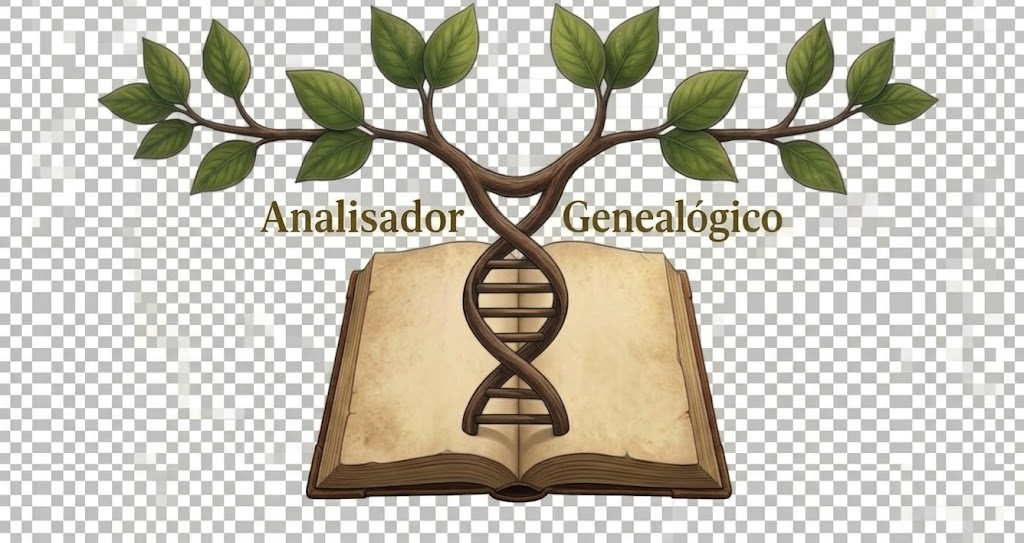
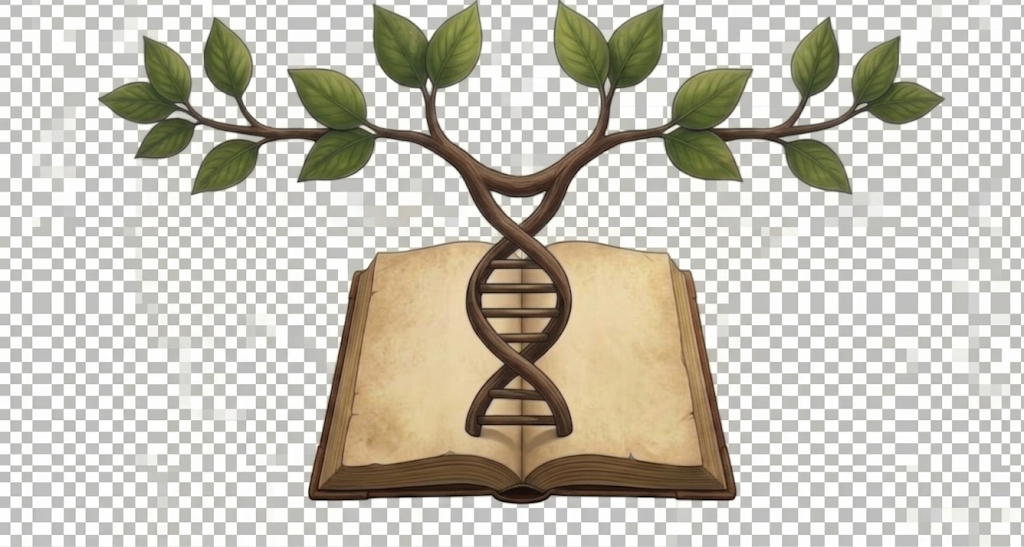
feat(tela): arte do topo sem o titulo e o h1 sempre visivel

diff --git a/src/templates/index.html b/src/templates/index.html
@@ -192,16 +192,14 @@
                                  alt="Ilustração: árvore genealógica, livro aberto e hélice de DNA"
                                  class="img-fluid w-50">
                             <p class="text-muted mb-1">Genetic Genealogy Path Analyzer</p>
-                            {# O `<h1>` SO e escondido enquanto a arte ESTA na tela. A arte do topo ja
-                               traz "Analisador Genealógico" desenhado, entao os dois visiveis
-                               nomeariam o produto duas vezes, uma logo abaixo da outra; e sem a
-                               arte, escondê-lo deixaria o operador sem nenhuma identificacao em
-                               portugues. A condicao vem do SERVIDOR (`arte_do_topo_disponivel`),
-                               porque o CSS nao sabe se uma imagem carregou.
-
-                               O texto nunca sai do documento: escondido ou nao, ele e o titulo de
-                               nivel 1 para leitor de tela e buscador. #}
-                            <h1 class="card-title mb-3{% if arte_do_topo_disponivel %} visually-hidden{% endif %}">Analisador Genealógico</h1>
+                            {# O `<h1>` e SEMPRE visivel, e a `RN-23` volta a valer como esta escrita.
+                               Ele chegou a ser escondido enquanto a arte do topo trazia "Analisador
+                               Genealógico" desenhado — com os dois visiveis, o produto se nomeava
+                               duas vezes, uma logo abaixo da outra. A arte trocada em 2026-10-16
+                               **nao tem o texto**, entao esconder o `h1` deixaria a tela sem
+                               nenhuma identificacao do produto em portugues: o subtitulo e em
+                               ingles e o `alt` descreve a ilustracao. #}
+                            <h1 class="card-title mb-3">Analisador Genealógico</h1>
                             {# O texto de apresentacao fica CENTRALIZADO e numa coluna mais
                                estreita que o cartao, na mesma forma organizada da documentacao
                                do projeto.

diff --git a/tests/test_banner_do_topo.py b/tests/test_banner_do_topo.py
@@ -116,13 +116,15 @@ class TestRotaDaArte:
         assert repetida.get_data() == b""
 
     def test_arte_ausente_devolve_404_e_a_tela_continua_de_pe(self, cliente_de_upload, monkeypatch):
-        """`RN-08` e `RN-23`, emendada em 2026-10-11: sem a arte, o titulo tem de APARECER.
+        """`RN-08`: a arte pode faltar, e a tela nao pode cair por causa dela.
 
-        **Este teste media a coisa errada ate 2026-10-11.** Ele procurava `TITULO_NA_TELA` em
-        qualquer lugar do documento, e o texto continua no HTML mesmo quando a folha o esconde —
-        entao ele passava enquanto o operador ficava **sem titulo nenhum**: o `alt` descreve a
-        ilustracao, nao o produto, e o subtitulo e em ingles. Agora ele prende o EFEITO, que e o
-        que ele sempre prometeu no docstring: sem a arte, o `<h1>` volta a ser visivel.
+        **Este teste media a coisa errada ate 2026-10-11** — procurava `TITULO_NA_TELA` em
+        qualquer lugar do documento, e o texto continua no HTML mesmo quando a folha o esconde.
+        Ele passava enquanto o operador ficava **sem titulo nenhum**.
+
+        Hoje a assercao e a mesma, mas o motivo mudou: o `<h1>` e **sempre visivel** desde
+        2026-10-16 (a arte nova nao traz o texto), entao a linha virou guarda contra alguem
+        voltar a esconde-lo.
         """
         app, cliente, _pasta = cliente_de_upload
         monkeypatch.setitem(app.config, "ARTE_DO_TOPO", os.path.join(_RAIZ, "nao-existe.png"))
@@ -133,8 +135,8 @@ class TestRotaDaArte:
         corpo = tela.get_data(as_text=True)
         assert TITULO_NA_TELA in corpo, "o titulo sumiu do documento quando a arte falta"
         assert "visually-hidden" not in _classe_do_h1(corpo), (
-            "sem a arte o `h1` ficou escondido: o operador fica sem nenhuma identificacao do "
-            "produto em portugues, que e o caso que este teste existe para impedir"
+            "o `h1` ficou escondido: o operador fica sem nenhuma identificacao do produto em "
+            "portugues, que e o caso que este teste existe para impedir"
         )
 
 
@@ -214,18 +216,27 @@ class TestTopoDaTela:
             "o titulo ANTIGO voltou para a tela: era para ele ter saido na `RN-16` e nao voltar"
         )
 
-    def test_o_titulo_so_e_escondido_quando_a_arte_esta_na_tela(self, cliente_de_upload):
-        """`RN-23` emendada em 2026-10-11: o `h1` duplica a arte, entao ele cede enquanto ela vem.
+    def test_o_titulo_do_produto_esta_sempre_visivel(self, cliente_de_upload):
+        """`RN-23`: o titulo e **texto visivel**, e nao depende da arte.
 
-        A arte do topo ja desenha "Analisador Genealogico". Com os dois visiveis, o produto se
-        nomeia duas vezes, uma logo abaixo da outra; sem a arte, esconder o `h1` deixaria o
-        operador sem titulo nenhum. A emenda e a condicao: escondido **se, e somente se,** a arte
-        responde — e quem responde isso e o servidor (`arte_do_topo_disponivel`), nao o CSS.
+        ## A condicao que existiu aqui, e por que ela saiu
+
+        Entre 2026-10-11 e 2026-10-16 o `h1` era escondido **enquanto a arte do topo respondesse**,
+        porque aquela arte trazia "Analisador Genealogico" DESENHADO: com os dois visiveis, o
+        produto se nomeava duas vezes, uma logo abaixo da outra. Quem respondia era o servidor
+        (`arte_do_topo_disponivel`, um processador de contexto), e nao o CSS — folha de estilo nao
+        sabe se uma imagem carregou.
+
+        A arte trocada em 2026-10-16 **nao tem o texto**, entao a condicao perdeu o objeto:
+        esconder o `h1` passaria a deixar a tela sem nenhuma identificacao do produto em portugues
+        (o subtitulo e em ingles e o `alt` descreve a ilustracao). O que este teste prende, a partir
+        dai, e a `RN-23` **como ela esta escrita** — sem emenda.
         """
         _app, cliente, _pasta = cliente_de_upload
 
-        assert "visually-hidden" in _classe_do_h1(self._corpo(cliente)), (
-            "com a arte na tela, o `h1` visivel repete o titulo que a arte ja desenha"
+        assert "visually-hidden" not in _classe_do_h1(self._corpo(cliente)), (
+            "o `h1` voltou a ser escondido: a arte atual nao traz o titulo, entao a tela ficaria "
+            "sem nenhuma identificacao do produto em portugues"
         )
 
     def test_o_h1_carrega_o_titulo_em_texto(self, cliente_de_upload):
@@ -364,16 +375,27 @@ class TestArteDerivada:
     def test_a_arte_nao_perdeu_as_partes_claras_que_sao_arte(self, arte):
         """O outro lado do risco: a regra que remove fundo claro nao pode furar a pintura.
 
-        ## Estes pontos foram MEDIDOS na composicao de 2026-10-10
+        ## Estes pontos foram MEDIDOS na composicao de 2026-10-16
 
-        Todos verificados como opacos no arquivo de runtime. Eles cobrem as duas famílias de risco:
+        Todos verificados como opacos no arquivo de runtime. Eles cobrem as duas familias de
+        risco:
 
         - **arte ESCURA e pouco saturada** (capa `sat=53`, lombada `sat=35`, base do livro
           `sat=22`) — o que um limite de brilho baixo demais comecaria a comer;
-        - **arte CLARA e quase neutra** (o preenchimento do texto dourado, `sat~24`) — o que um
-          teto de saturacao largo demais come, e foi o defeito MEDIDO: com um unico limite de
-          brilho, as letras de "Analisador Genealogico" ficaram OCAS. A correcao esta em
-          `_e_fundo`, que usa teto estreito na faixa de 160 a 190.
+        - **arte CLARA e quase neutra** — o que um teto de saturacao largo demais come. Os dois
+          pontos centrais sao desta familia, e foram escolhidos a **>= 4 px de qualquer pixel de
+          fundo**: prendem TINTA, e nao a antialiasing da borda.
+
+        ## O ponto que saiu em 2026-10-16, e por que ele caiu
+
+        A composicao anterior tinha um ponto no **preenchimento do texto dourado**
+        (`(270, 212)`, `sat~24`), e era ele que prendia a faixa ESTREITA de saturacao — foi com um
+        teto unico que as letras de "Analisador Genealogico" ficaram OCAS.
+
+        A arte atual **nao tem o texto**: `(270, 212)` virou fundo e este teste caiu, corretamente.
+        A familia continua representada pelos dois pontos centrais; a contagem que a prende sem
+        depender de um pixel esta em
+        `test_a_faixa_estreita_de_saturacao_continua_protegendo_tinta`.
 
         Se alguem "resolver" um residuo de fundo baixando o brilho ou alargando a saturacao, um
         destes pontos vira buraco e este teste cai.
@@ -384,7 +406,8 @@ class TestArteDerivada:
             "folha alta direita": (860, 75),
             "galho esquerdo": (300, 130),
             "galho direito": (700, 130),
-            "preenchimento do texto (A)": (270, 212),
+            "tinta clara e quase neutra, no centro (1)": (511, 255),
+            "tinta clara e quase neutra, no centro (2)": (489, 377),
             "pagina esquerda": (430, 360),
             "pagina direita": (600, 360),
             "lombada": (512, 420),
@@ -395,3 +418,41 @@ class TestArteDerivada:
             assert rgba.getpixel((x, y))[3] == 255, (
                 f"a arte perdeu {rotulo} em ({x}, {y}): a remocao de fundo comeu tinta"
             )
+
+    def test_a_faixa_estreita_de_saturacao_continua_protegendo_tinta(self, arte):
+        """A contagem que prende a faixa estreita sem depender de um pixel so'.
+
+        `_e_fundo` trata a faixa de 160 a 190 com teto de saturacao **estreito** (12), porque
+        ali o fundo e cinza neutro (`sat` 0..7) e a tinta clara e levemente quente. Se o teto
+        voltar a ser o largo (50), **toda** a tinta dessa faixa vira fundo — foi o defeito medido
+        que deixou as letras de "Analisador Genealogico" ocas na composicao anterior.
+
+        ## Os numeros sao medidos, nao escolhidos
+
+        Na arte derivada de 2026-10-16: **455 pixels** opacos nesta faixa. Com o teto largo:
+        **zero**. O piso de 150 fica com folga de 3x para baixo de proposito — pixels de borda
+        mudam com qualquer ajuste na segunda passada da receita, e o que este teste prende e a
+        ORDEM DE GRANDEZA, nao o valor exato.
+
+        Este teste existe porque o ponto por pixel que fazia esse papel saiu com o texto: sem ele,
+        alargar o teto passaria despercebido.
+        """
+        rgba = arte.convert("RGBA")
+        pixels = rgba.load()
+        largura, altura = rgba.size
+
+        na_faixa = 0
+        for y in range(altura):
+            for x in range(largura):
+                r, g, b, alfa = pixels[x, y]
+                if alfa != 255:
+                    continue
+                maior, menor = max(r, g, b), min(r, g, b)
+                if 160 <= maior < 190 and 12 < (maior - menor) <= 50:
+                    na_faixa += 1
+
+        assert na_faixa >= 150, (
+            f"so' {na_faixa} pixels opacos na faixa estreita de saturacao (medido: 455). O teto "
+            "de `SATURACAO_MINIMA_ESCURA` foi alargado, ou o brilho minimo baixou, e a tinta clara "
+            "da arte esta sendo tratada como fundo"
+        )

diff --git a/src/app.py b/src/app.py
@@ -435,29 +435,21 @@ def banner_do_topo():
     return send_file(caminho, mimetype="image/png")
 
 
-# A arte do topo traz "Analisador Genealogico" DESENHADO nela, entao o `<h1>` fica `visually-hidden`
-# enquanto ela responde: mostrar os dois nomearia o produto duas vezes, uma logo abaixo da outra. O
-# `<h1>` nao sai do documento — ele continua sendo o titulo de nivel 1 para leitor de tela e buscador.
+# O processador de contexto `_arte_do_topo_disponivel` EXISTIU aqui, e saiu em 2026-10-16 junto com a
+# condicao que ele alimentava no template. O registro fica porque a ideia pode voltar.
 #
-# A CONDICAO E DO SERVIDOR, e nao do navegador. O CSS nao sabe se uma imagem carregou, e o JS so
-# descobriria depois de a pagina pintar — tarde para quem ja leu o topo. Aqui a pergunta e feita antes
-# de renderizar, e `os.path.isfile` e a MESMA pergunta que a rota responde em `404`: as duas nao podem
-# divergir.
+# Ele respondia "a arte do topo esta no disco?" para o `<h1>` se esconder quando ela responde. Fazia
+# sentido enquanto a arte trazia "Analisador Genealogico" DESENHADO: com os dois visiveis, o produto se
+# nomeava duas vezes, uma logo abaixo da outra. E a condicao era do SERVIDOR, e nao do CSS, porque folha
+# de estilo nao sabe se uma imagem carregou.
 #
-# POR QUE ISSO IMPORTA. Sem a arte, esconder o `<h1>` deixaria o operador com o subtitulo em ingles e
-# **nenhuma** identificacao do produto em portugues. Era o caso que o `RN-08` declara suportado (a arte
-# pode faltar e a tela continua de pe) e que ficou descoberto quando o `<h1>` passou a ser escondido.
+# A arte trocada em 2026-10-16 **nao tem o texto** (ver `docs/assets/img/banner-analisador.png`), entao
+# a condicao perdeu o objeto: esconder o `<h1>` passaria a deixar a tela sem NENHUMA identificacao do
+# produto em portugues — o subtitulo e em ingles e o `alt` descreve a ilustracao. O `<h1>` volta a ser
+# sempre visivel e a `RN-23` volta a valer como esta escrita.
 #
-# Vem por processador de contexto, e nao por argumento nos oito `render_template`, pelo mesmo motivo das
-# listas: seriam oito lugares para esquecer um.
-@app.context_processor
-def _arte_do_topo_disponivel():
-    """`True` enquanto o arquivo da arte do topo estiver no disco.
-
-    Lida de `app.config` a cada renderizacao, e nao capturada no import: e o que permite ao teste
-    apontar `ARTE_DO_TOPO` para um caminho inexistente e medir a tela sem a arte.
-    """
-    return {"arte_do_topo_disponivel": os.path.isfile(app.config["ARTE_DO_TOPO"])}
+# SE A ARTE VOLTAR A TRAZER O TITULO, a condicao volta a fazer sentido: um processador de contexto com
+# `os.path.isfile(app.config["ARTE_DO_TOPO"])`, que e a MESMA pergunta que a rota responde em `404`.
 
 
 # --- A folha de estilo da tela ---

diff --git a/tests/test_icone_de_atalho.py b/tests/test_icone_de_atalho.py
@@ -122,7 +122,22 @@ TAMANHO_ESPERADO = 16504
 #: `-#}` para nao acrescentarem whitespace ao documento — sem isso o delta seria +59, e esta
 #: declaracao estaria contando espaco em branco em vez de contar a regra.
 #: A declaracao esta em `_reversa_sdd/addenda/021-seletor-de-arquivos-por-formato.md`.
[1 lines of base64/hex data omitted]
+#:
+#: **Atualizado em 2026-10-16, pela troca da arte do topo.** A arte nova
+#: (`docs/assets/img/banner-analisador.png`, 1024x547) NAO traz "Analisador Genealogico" desenhado.
+#: Com isso o `<h1>` voltou a ser SEMPRE visivel: a condicao que o escondia enquanto a arte
+#: respondia (`arte_do_topo_disponivel`, um processador de contexto) perdeu o objeto e saiu junto,
+#: de `src/app.py` e do template. `39c6257f…` (30.759 bytes) → `c4a34f7b…` (30.781).
+#:
+#: A contribuicao DESTA mudanca e **-16 bytes** — exatamente o ` visually-hidden` que saiu da classe
+#: do `h1`. Os +38 restantes do delta sao de edicoes **em curso e nao commitadas** de outra sessao no
+#: mesmo template: medido, e nao deduzido, porque o valor anterior veio do commit do adendo `021` e o
+#: template esta modificado na arvore. Este hash mede a TELA, entao ele acusa as duas coisas juntas.
+#:
+#: Com o titulo de volta, a **`RN-23` volta a valer como esta escrita**: a emenda que o adendo `013`
+#: registrou ("escondido se, e somente se, a arte responder") foi RETIRADA. A declaracao desta
+#: entrega esta em `_reversa_sdd/addenda/023-arte-do-topo-sem-o-titulo.md`.
[1 lines of base64/hex data omitted]
 
 
 def _cabecalho_png(corpo: bytes):

diff --git a/_reversa_sdd/addenda/023-arte-do-topo-sem-o-titulo.md b/_reversa_sdd/addenda/023-arte-do-topo-sem-o-titulo.md
@@ -1,0 +1,116 @@
+# Adendo: arte do topo sem o título
+
+> Identificador: `023-arte-do-topo-sem-o-titulo`
+> Data: `2026-10-16`
+> Cenário: **legado** (âncora em `_reversa_sdd/recursos-da-tela/` e `_reversa_sdd/design-system/`)
+
+## Vigência
+
+Vigente desde 2026-10-16.
+
+**Reverte uma parte do adendo `013-revisao-de-design-da-tela.md`** — a emenda à `RN-23` que escondia o
+`<h1>`. Ver "O que este adendo reverte do adendo 013".
+
+## Resumo da entrega
+
+O operador trocou a arte do topo por uma versão **sem o texto "Analisador Genealógico"** desenhado, e
+relatou que o fundo não estava transparente.
+
+O que estava errado não era a imagem: ele substituiu a arte **derivada** por uma **fonte crua**. O
+arquivo `src/assets/banner-da-tela.png` é a saída da receita, e o que a rota serve; a fonte canônica
+mora em `docs/assets/img/banner-analisador.png`. O arquivo entrou com **canal alfa inteiramente opaco**
+(medido: 0 pixels transparentes em 560.128) e o **quadriculado de transparência pintado no bitmap**
+(claro em 253-254 alternando com cinza em 191-192, em blocos de 8 px) — a mesma classe de defeito que a
+feature 011 já tinha enfrentado em 2026-10-10.
+
+A entrega tem quatro frentes:
+
+1. **A arte nova entra como fonte canônica** — `docs/assets/img/banner-analisador.png` passa de
+   926.083 para **1.101.780 bytes**, e de 1024x543 para **1024x547**.
+2. **A derivada é regerada pela receita existente**, sem reajuste de limites:
+   `python -m tests.banner_da_tela` produz **318.911 bytes, 72,4 % transparente, zero resíduo de
+   fundo**. Os limites medidos em 2026-10-10 (`CLARO_MINIMO = 160` e as duas faixas de saturação)
+   valem para esta composição.
+3. **O `<h1>` volta a ser sempre visível.** Ele era escondido enquanto a arte respondesse, porque
+   aquela arte trazia o título desenhado. A arte nova não traz — esconder o `h1` deixaria a tela sem
+   **nenhuma** identificação do produto em português. O processador de contexto
+   `arte_do_topo_disponivel` saiu de `src/app.py` junto com a condição.
+4. **O ponto de amostra que prendia o texto dourado no teste da arte foi substituído**, e a família
+   que ele protegia ganhou uma guarda por contagem.
+
+**Suíte: `1020 passed, 9 skipped`.**
+
+> ⚠ **A paridade diferencial NÃO está em 100 % nesta data** — 20 divergências, todas no probe
+> `ancestral[...]`, e **nenhuma delas é desta entrega**: elas vêm da correção da busca de ancestral
+> comum que outra sessão tem em curso (`src/core/documentary_relationship.py`, `path_finding.py`,
+> `identidade_do_match.py`). Registrado aqui para que ninguém atribua a divergência a esta troca de
+> arte.
+
+## O que este adendo reverte do adendo 013
+
+O `013` registrou uma **emenda à `RN-23`**: "o título é texto no documento, e **visível apenas quando
+a arte do topo não responde**". A emenda existia por um motivo real — a arte daquela data trazia
+"Analisador Genealógico" desenhado, e manter os dois visíveis nomeava o produto duas vezes, uma logo
+abaixo da outra.
+
+**A emenda foi retirada.** Com uma arte sem o texto, a condição perdeu o objeto, e a `RN-23` volta a
+valer **como está escrita**: "o título volta a ser texto visível".
+
+O que **não** foi revertido do `013`: a folha de estilo servida por `GET /app.css`, o controle de
+tema, o índice, o selo e a grade do kit continuam como aprovados — e a outra emenda do `013` (o teto
+de 320 px da arte) segue vigente.
+
+O comentário do `SHA_DA_TELA` em `tests/test_icone_de_atalho.py` foi atualizado na mesma direção: ele
+apontava para a emenda do `013` e agora aponta para este adendo.
+
+## Impacto por artefato da extração
+
+| Artefato | Seção | Tipo de impacto | Delta |
+|----------|-------|-----------------|-------|
+| `_reversa_sdd/addenda/013-revisao-de-design-da-tela.md` | "Regras alteradas", linha da `RN-23` (título) | regra-removida | A emenda que escondia o `<h1>` deixa de valer; a `RN-23` volta ao texto original |
+| `_reversa_sdd/recursos-da-tela/contracts.md` | arte do topo | delta-de-dados | A arte servida passa a ser 1024x547 (era 1024x543), com **72,4 %** de transparência e zero resíduo |
+| `docs/assets/img/banner-analisador.png` (fora da extração, citado por completude) | — | delta-de-dados | A fonte canônica é substituída: 926.083 → **1.101.780 bytes** |
+| `src/assets/banner-da-tela.png` | — | delta-de-dados | A derivada é regerada: 317.058 → **318.911 bytes**, pela receita, e não à mão |
+| `tests/test_banner_do_topo.py` | `TestArteDerivada` | regra-alterada | O ponto `(270, 212)` — preenchimento do texto dourado — saiu, e entrou `test_a_faixa_estreita_de_saturacao_continua_protegendo_tinta` |
+| `README.md` (fora da extração) | "A tela de entrada" | delta-de-contrato-externo | O texto descreve o topo com o título; a arte embutida no README é um `<img>` do banner, que continua válido |
+
+## A guarda que substituiu o ponto do texto
+
+O teste `test_a_arte_nao_perdeu_as_partes_claras_que_sao_arte` prendia, pelo pixel `(270, 212)`, a
+família **"arte clara e quase neutra"** — a que um teto de saturação largo demais come, e foi o
+defeito medido que deixou as letras de "Analisador Genealógico" **ocas**.
+
+Com a arte sem texto, esse pixel virou fundo e o teste caiu — corretamente. Os candidatos que
+sobraram na mesma família eram **pixels de borda** (antialiasing), e prender um deles tornaria o
+teste frágil a qualquer ajuste na segunda passada da receita.
+
+A substituição foi medida, e não escolhida:
+
+- **455 pixels** opacos na faixa estreita (160 a 190, saturação 13 a 50), dos quais **401 são
+  interiores** e **54 são borda**;
+- com o teto largo (50), sobrariam **zero**;
+- o teste novo exige **piso de 150**, com folga de 3x para baixo de propósito: o que ele prende é a
+  **ordem de grandeza**, não o valor exato.
+
+Dois pontos de **tinta** da mesma família entraram no teste por pixel, escolhidos a **≥ 4 px de
+qualquer pixel de fundo** — `(511, 255)` e `(489, 377)` — para prenderem pintura, e não a fronteira.
+
+## Regras sob vigilância
+
+| Item | Onde | Sinal de quebra |
+|------|------|-----------------|
+| A arte servida vem da RECEITA | `tests/banner_da_tela.py` | Alguém editar `src/assets/banner-da-tela.png` à mão, ou trocar a fonte sem regerar a derivada — foi exatamente o que aconteceu aqui |
+| A derivada não tem bloco de quadriculado | `TestArteDerivada` | `residuo_de_fundo` deixar de ser zero na caixa medida |
+| A faixa estreita continua protegendo tinta | idem | A contagem cair abaixo de 150: o teto de `SATURACAO_MINIMA_ESCURA` foi alargado ou o brilho mínimo baixou |
+| O `<h1>` está sempre visível | `test_o_titulo_do_produto_esta_sempre_visivel` | A classe do `h1` ganhar `visually-hidden` sem uma arte que traga o texto |
+| `SHA_DA_TELA` | `tests/test_icone_de_atalho.py` | `c4a34f7b…` (30.781 bytes) |
+
+## Fontes
+
+- `docs/assets/img/banner-analisador.png` — a fonte canônica nova (1024x547)
+- `src/assets/banner-da-tela.png` — a derivada regerada pela receita
+- `tests/banner_da_tela.py` — a receita, com os limites medidos em 2026-10-10 e revalidados aqui
+- `tests/test_banner_do_topo.py` — a rota, a arte derivada e as guardas de tinta
+- `tests/test_icone_de_atalho.py` — o `SHA_DA_TELA` e a declaração desta mudança
+- `src/app.py`, `src/templates/index.html` — a saída do processador de contexto e o `<h1>` visível
+- `_reversa_sdd/addenda/013-revisao-de-design-da-tela.md` — o adendo cuja emenda à `RN-23` é revertida
